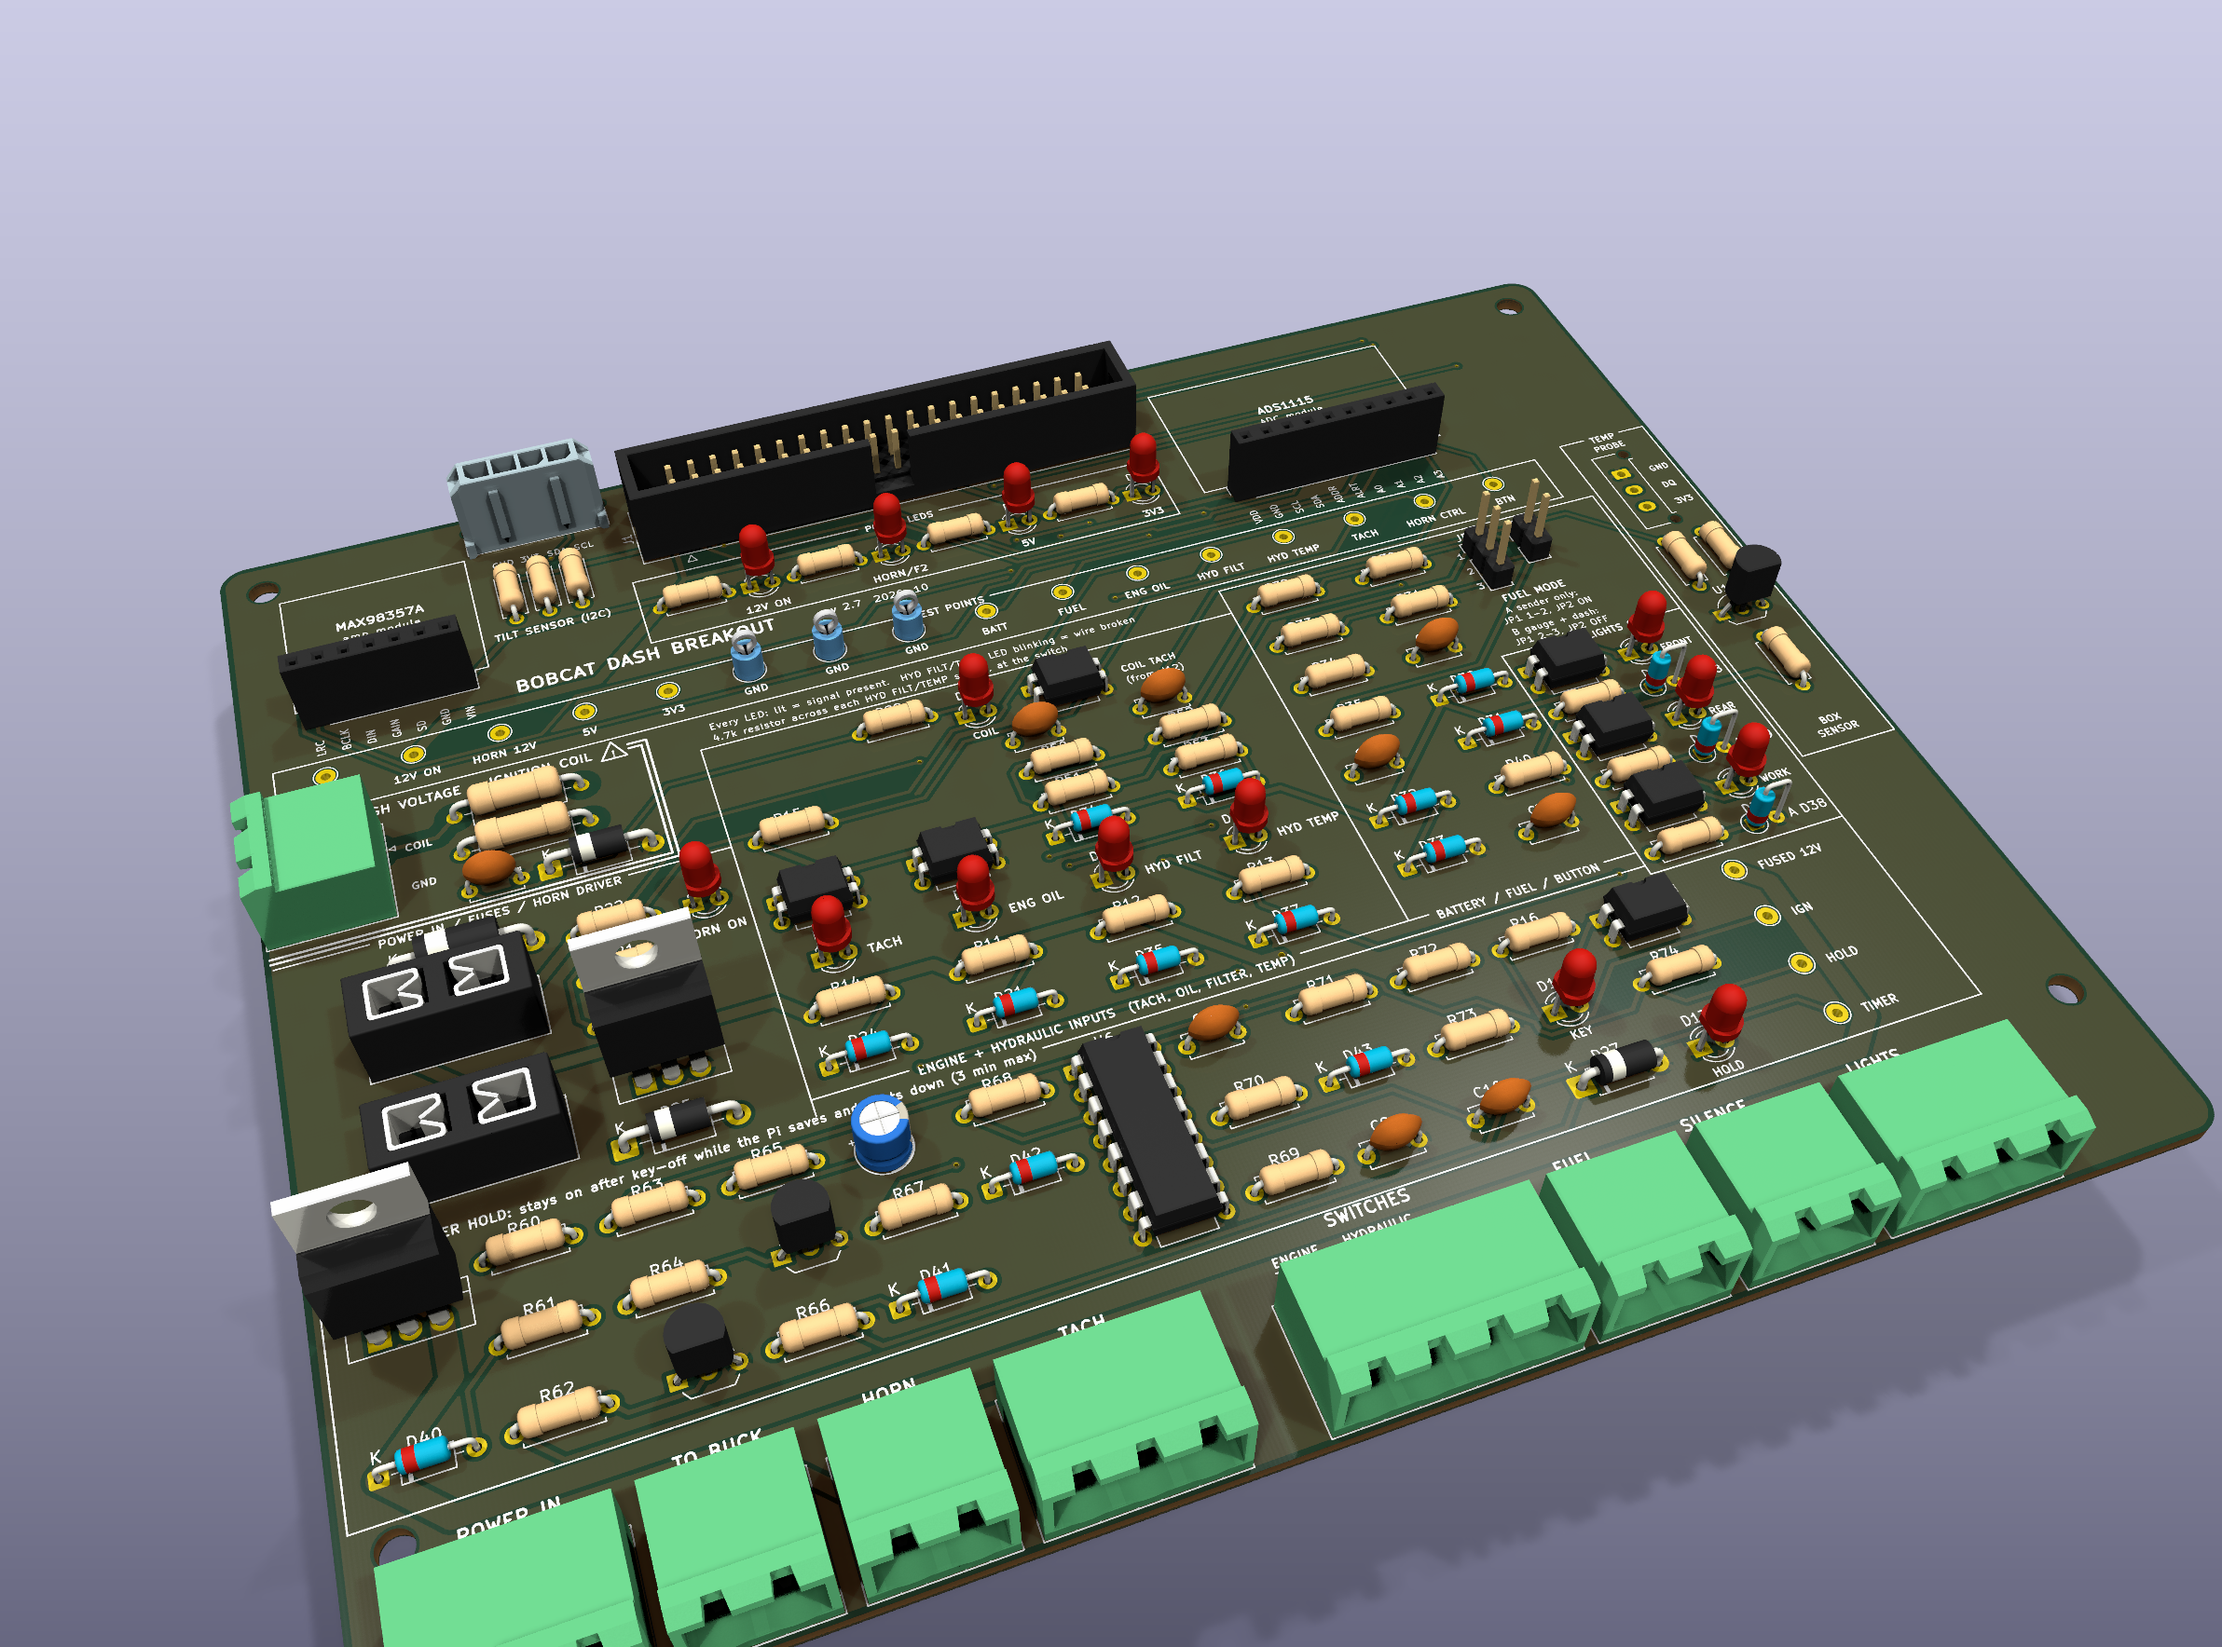
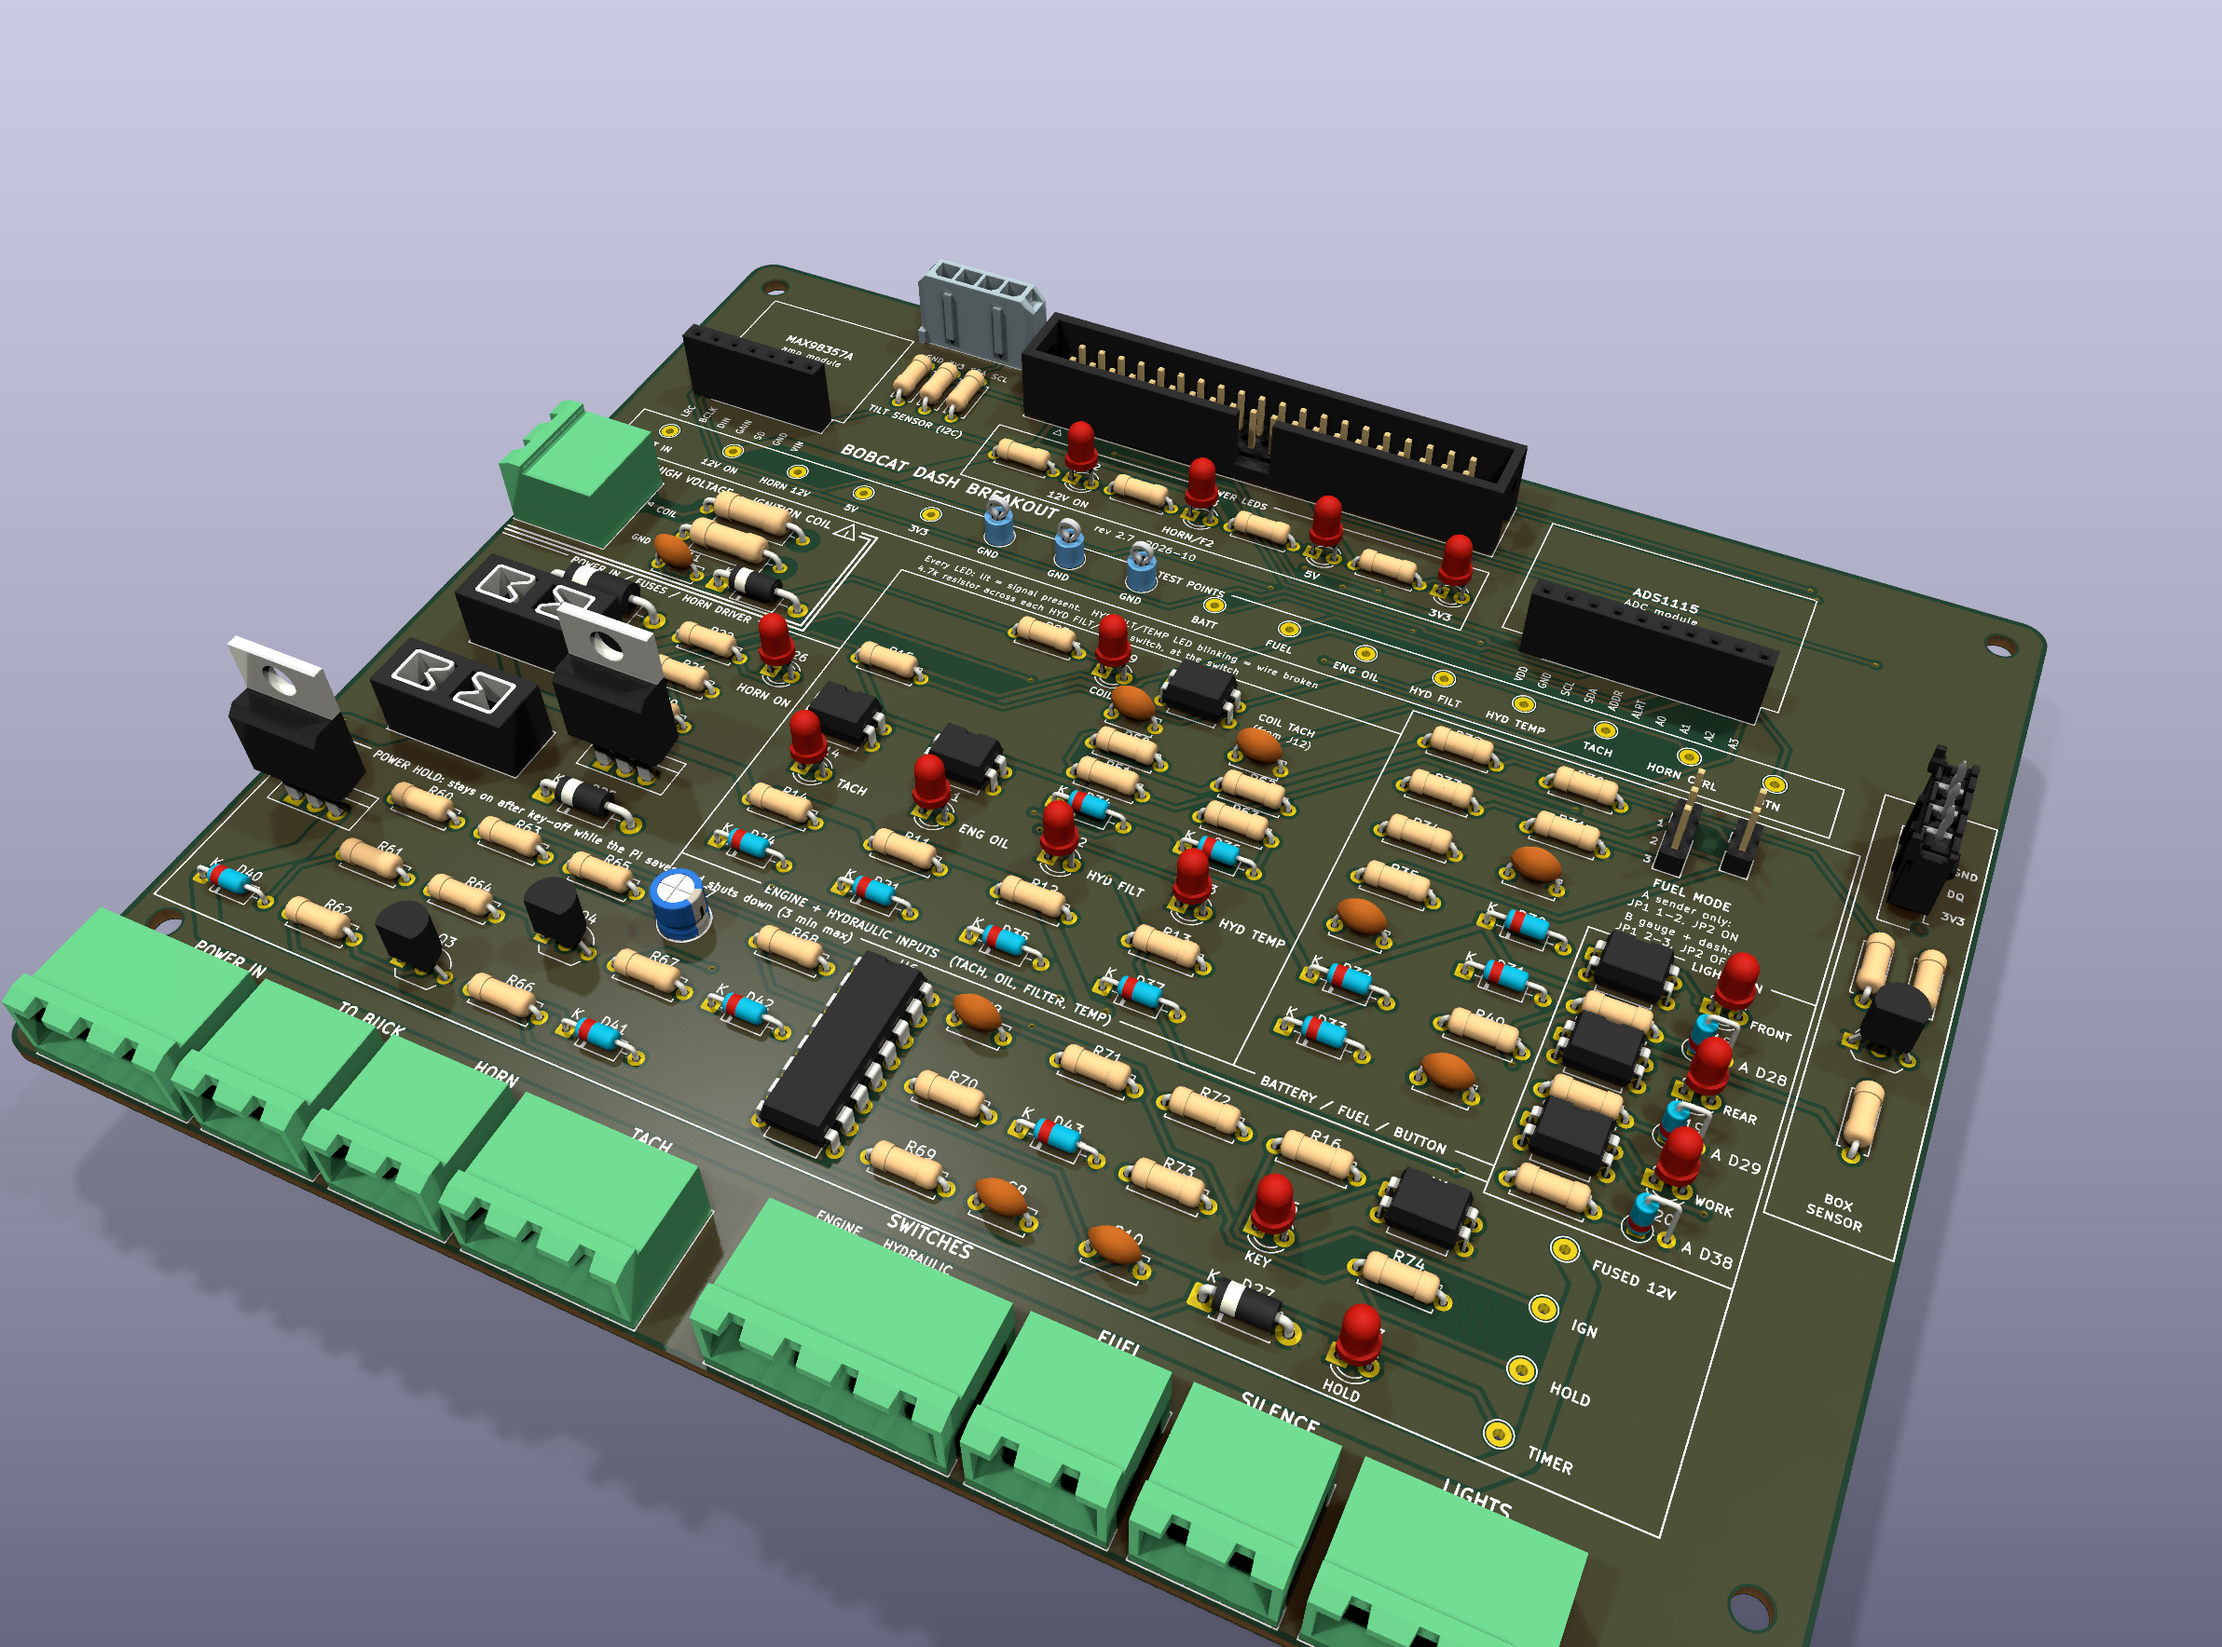
TEMP PROBE connector 3D model aligned; board pictures show both Molex plugs
Molex's 43650-0315 STEP has its origin in a different place from the 4-pin
part, so J14 gets its own offset (0, 0.2, 9.9). Re-rendered docs pictures.
The STEP files stay local (gitignored).

diff --git a/breakout-board/generator/gen_pcb.py b/breakout-board/generator/gen_pcb.py
@@ -169,8 +169,8 @@ for name in sorted(set(PIN_NET.values()), key=lambda n: "/" + _design_name.get(n
 # 43650-0415, CAD models) into kicad/3d/. It isn't in the repository (Molex's terms), so without it KiCad just
 # shows the pads. Rotation / offset found by rendering: pins in the pads, housing on the board, latch to the notch.
 MODEL_3D = {"J13": ("${KIPRJMOD}/3d/436500415.stp", (90, 0, 0), (4.5, -2.0, 9.9)),
-            # same Molex series, 3 pins (centre at 3.0 mm): download 43650-0315 the same way
-            "J14": ("${KIPRJMOD}/3d/436500315.stp", (90, 0, 0), (3.0, -2.0, 9.9))}
+            # same Molex series, 3 pins: download 43650-0315 the same way (its STEP origin sits elsewhere)
+            "J14": ("${KIPRJMOD}/3d/436500315.stp", (90, 0, 0), (0.0, 0.2, 9.9))}
 
 link = json.load(open("sch_uuids.json"))
 for p in PARTS:

diff --git a/breakout-board/README.md b/breakout-board/README.md
@@ -187,16 +187,17 @@ Never fit JP2 in setup B. The gauge would back-feed the pull-up. It wouldn't dam
 
 ## 3D models
 
-KiCad's own library covers every part except the TILT connector (Molex Micro-Fit 3.0, 43650-0415): KiCad
-ships no Micro-Fit models. The project uses Molex's own STEP model, which isn't included here because Molex's
-terms don't clearly allow passing it on. To get it in the 3D viewer and renders:
+KiCad's own library covers every part except the TILT and TEMP PROBE connectors (Molex Micro-Fit 3.0,
+43650-0415 and 43650-0315): KiCad ships no Micro-Fit models. The pictures in `docs/` were rendered with Molex's
+own STEP models, but the STEP files themselves aren't included here because Molex's terms don't clearly allow
+passing them on. To get them in the 3D viewer and your own renders:
 
 1. On molex.com, search **43650-0415**, open **CAD Models** and download the **STEP** file (free; it may ask
    you to register). It's named `436500415.stp`.
 2. Put it in `kicad/3d/436500415.stp` (the folder is in `.gitignore`). For the TEMP PROBE connector, do the same
    for **43650-0315** (`436500315.stp`).
 
-The board already points to it, rotated and offset to sit on its pads. Without the file, KiCad just shows that
+The board already points to both, rotated and offset to sit on their pads. Without a file, KiCad just shows that
 connector's pads and outline; nothing else is affected (the 3D model isn't part of the Gerbers).
 
 ## Keeping the plugs in
